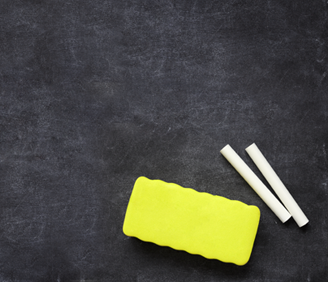
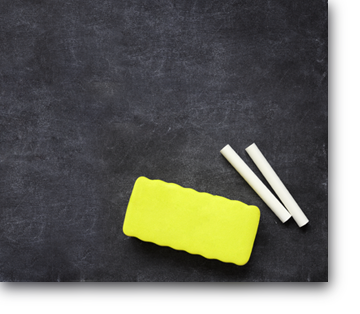
sponsored blog pages2

diff --git a/source/css/partials/home-sponblog/_sections.scss b/source/css/partials/home-sponblog/_sections.scss
@@ -39,6 +39,12 @@ section {
       }
     }
 
+    li {
+      font: 17px gotham_light;
+      line-height: 1.7em;
+      margin: 0px -6px 0px -15px;       
+    }
+
     .coming-soon {
       font: 14px gotham_light;
       font-style: italic;
@@ -51,16 +57,17 @@ section {
     .container > div {
       @include screenie;
       background: transparent image-url('home/screens/blackboard.png') no-repeat -20px center;
-      background-size: 45%;
+      background-size: 48%;
+      background-position: -26px 136px;
 
       @include apply-to(less-than, desktop) {
-        background-position: -247px center;
+        background-position: -204px 136px;
         background-size: 82%;
       }
 
       > div {
         background: transparent image-url('home/screens/shadow-y.png') no-repeat 0 center;
-        background-size: 14px;
+        background-size: 11px;
         padding: 130px 0 130px 429px;
         width: 421px;
 
@@ -86,7 +93,7 @@ section {
 
       > div {
         background: transparent image-url('home/screens/shadow-y.png') no-repeat 0 center;
-        background-size: 14px;
+        background-size: 11px;
         padding: 130px 0 130px 429px;
         width: 421px;
 
@@ -102,12 +109,12 @@ section {
   &#payment {
     .container {
       background: transparent image-url("home/screens/payment.png") no-repeat;
-      background-size: 30%;
-      background-position: 714px;
+      background-size: 25%;
+      background-position: 736px;
 
       @include apply-to(more-than, desktop) {
-        background-position: 855px;
-        background-size: 30%;        
+        background-position: 870px;
+        background-size: 29%;        
       }
 
       > div {

diff --git a/source/blog/articles/2013/11/deploy-specific-files.html.md b/source/blog/articles/2013/11/deploy-specific-files.html.md
@@ -1,7 +1,7 @@
 ---
 title: Selective File Deployment
 author: Freddy May
-date: 2013-11-20
+date: 2013-11-21
 tags: Changelog
 class_name: blog
 full_width: true

diff --git a/source/blog/articles/2013/11/quick-open.html.md b/source/blog/articles/2013/11/quick-open.html.md
@@ -1,7 +1,7 @@
 ---
 title: Quick Open
 author: Freddy May
-date: 2013-11-19
+date: 2013-11-21
 tags: Changelog
 class_name: blog
 full_width: true
